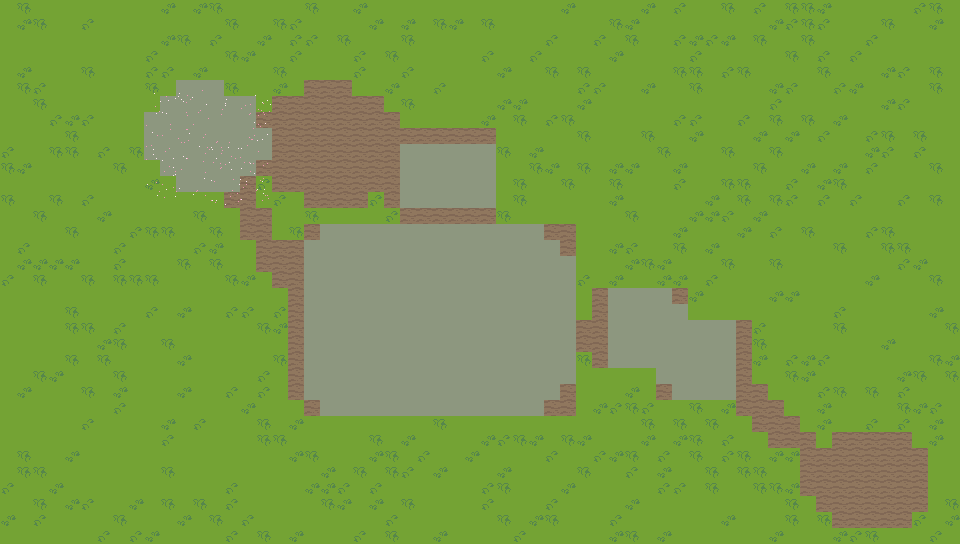
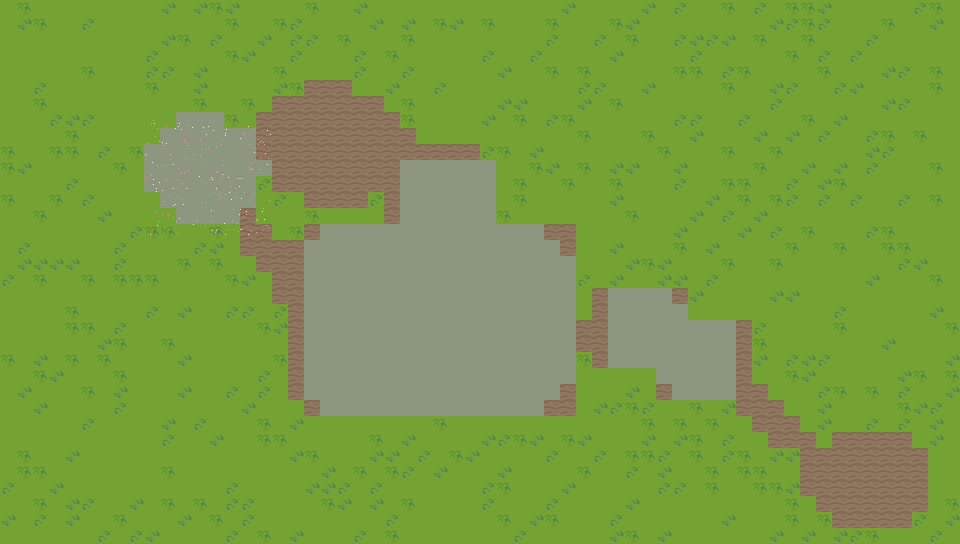
调整: 放大日式建筑并补红色鸟居/石灯笼
主城/治疗堂/眼狩署/神樱庭房屋 1.5x, 锻造坊 2x; 地点标签改为显式 labelY, 不再压屋顶。

新增红色鸟居 (神樱庭/官道) 与石灯笼 (广场/神社/路边, 带暖光); 神樱庭下移、眼狩署下移避开顶部时间轴/世界横幅; 官道木门由鸟居替代。

E2E 增加鸟居/石灯笼纹理断言。

diff --git a/visualization/src/art/ninjaAssets.ts b/visualization/src/art/ninjaAssets.ts
@@ -6,7 +6,7 @@ export const NINJA_TOWN_KEY = "ninja_town";
 
 export const NINJA_SPRITE_FILES = [
   "house_main", "house_clinic", "house_shrine", "house_forge",
-  "house_white", "house_ruin", "gate", "fence", "rock", "log",
+  "house_white", "house_ruin", "fence", "rock", "log", "torii_red", "lantern_stone",
   "tree_round", "tree_round2", "tree_sakura",
 ] as const;
 
@@ -23,15 +23,12 @@ export interface NinjaPart {
 
 // 每个地点 1~2 个建筑部件; 底边锚在锚点略后方, 角色站前方 → y-sort。
 export const NINJA_BUILDING_PARTS: Record<string, NinjaPart[]> = {
-  稻妻主城: [{ key: "house_clinic", dx: 0, dy: 0 }],
-  治疗堂: [{ key: "house_main", dx: 0, dy: 0 }],
+  稻妻主城: [{ key: "house_clinic", dx: 0, dy: 0, scale: 1.5 }],
+  治疗堂: [{ key: "house_main", dx: 0, dy: 0, scale: 1.5 }],
   锻造坊: [{ key: "house_forge", dx: 0, dy: 0, scale: 2 }],
-  眼狩署: [{ key: "house_white", dx: 0, dy: 0 }],
-  神樱庭: [
-    { key: "house_shrine", dx: 0, dy: 0 },
-    { key: "gate", dx: -55, dy: 4 },
-  ],
-  城外官道: [{ key: "gate", dx: 0, dy: 0 }],
+  眼狩署: [{ key: "house_white", dx: 0, dy: 0, scale: 1.5 }],
+  神樱庭: [{ key: "house_shrine", dx: 0, dy: 0, scale: 1.5 }],
+  城外官道: [],
 };
 
 export interface NinjaDecor {
@@ -88,4 +85,14 @@ export const NINJA_DECOR: NinjaDecor[] = [
   { key: "fence", x: 382, y: 165, scale: 1 },
   { key: "log", x: 292, y: 170, scale: 1 },
   { key: "rock", x: 360, y: 120, scale: 1 },
+  // 红色鸟居 + 石灯笼 (稻妻/和风标志)
+  { key: "torii_red", x: 120, y: 180, scale: 1 },
+  { key: "torii_red", x: 850, y: 450, scale: 1 },
+  { key: "lantern_stone", x: 350, y: 320, scale: 1 },
+  { key: "lantern_stone", x: 530, y: 320, scale: 1 },
+  { key: "lantern_stone", x: 600, y: 360, scale: 1 },
+  { key: "lantern_stone", x: 300, y: 210, scale: 1 },
+  { key: "lantern_stone", x: 760, y: 400, scale: 1 },
+  { key: "lantern_stone", x: 660, y: 300, scale: 1 },
+  { key: "lantern_stone", x: 130, y: 230, scale: 1 },
 ];

diff --git a/visualization/src/data/locationAnchors.ts b/visualization/src/data/locationAnchors.ts
@@ -11,15 +11,17 @@ export interface LocationAnchor {
   w: number;
   h: number;
   color: number;
+  // 可选: 地点标签的屏幕 y (不填则按 h 估算)。大房子/鸟居需要显式抬高。
+  labelY?: number;
 }
 
 export const LOCATION_ANCHORS: Record<string, LocationAnchor> = {
-  稻妻主城: { x: 440, y: 330, label: "稻妻主城", w: 180, h: 140, color: 0x3a4a5a },
-  治疗堂:   { x: 640, y: 330, label: "治疗堂",   w: 130, h: 140, color: 0x4a5a4a },
-  锻造坊:   { x: 700, y: 360, label: "锻造坊",   w: 120, h: 140, color: 0x5a4a3a },
-  眼狩署:   { x: 440, y: 170, label: "眼狩署",   w: 140, h: 100, color: 0x5a3a3a },
-  神樱庭:   { x: 200, y: 130, label: "神樱庭",   w: 150, h: 110, color: 0x5a3a5a },
-  城外官道: { x: 850, y: 470, label: "城外官道", w: 130, h: 70,  color: 0x4a4a3a },
+  稻妻主城: { x: 440, y: 330, label: "稻妻主城", w: 180, h: 140, color: 0x3a4a5a, labelY: 170 },
+  治疗堂:   { x: 640, y: 330, label: "治疗堂",   w: 130, h: 140, color: 0x4a5a4a, labelY: 195 },
+  锻造坊:   { x: 700, y: 360, label: "锻造坊",   w: 120, h: 140, color: 0x5a4a3a, labelY: 245 },
+  眼狩署:   { x: 440, y: 190, label: "眼狩署",   w: 140, h: 100, color: 0x5a3a3a, labelY: 80 },
+  神樱庭:   { x: 200, y: 160, label: "神樱庭",   w: 150, h: 110, color: 0x5a3a5a, labelY: 56 },
+  城外官道: { x: 850, y: 470, label: "城外官道", w: 130, h: 70,  color: 0x4a4a3a, labelY: 360 },
 };
 
 // 某地点的视觉锚点中心 (Sprite 站位)。未知地点回退画布中心。

diff --git a/visualization/src/scenes/InazumaScene.ts b/visualization/src/scenes/InazumaScene.ts
@@ -281,7 +281,7 @@ export class InazumaScene extends Phaser.Scene {
     }
     // 地点标签: 统一放建筑/角色上方; 顶部过近时夹到 y=50 (避开时间轴)。
     for (const a of Object.values(LOCATION_ANCHORS)) {
-      const labelY = Math.max(56, a.y - a.h / 2 - 14 - LOCATION_LABEL_LIFT);
+      const labelY = a.labelY ?? Math.max(56, a.y - a.h / 2 - 14 - LOCATION_LABEL_LIFT);
       this.add.text(a.x, labelY, a.label, {
         fontFamily: "monospace", fontSize: "11px", color: "#cfc6b8", stroke: "#000000", strokeThickness: 2,
       }).setOrigin(0.5, 1).setDepth(500);
@@ -669,6 +669,9 @@ export class InazumaScene extends Phaser.Scene {
       const sc = d.scale ?? 1;
       if (d.key.startsWith("tree")) {
         this.add.ellipse(d.x, d.y - 3, 18 * sc, 6, 0x000000, 0.16)
+          .setDepth(Math.round(d.y) - 1);
+      } else if (d.key === "lantern_stone") {
+        this.add.ellipse(d.x, d.y - 26, 26, 9, 0xf5d27a, 0.18)
           .setDepth(Math.round(d.y) - 1);
       }
       this.add.image(d.x, d.y, ninjaKey(d.key))

diff --git a/visualization/tools/build_ninja_town.py b/visualization/tools/build_ninja_town.py
@@ -47,13 +47,13 @@ def main() -> None:
     # 土路 / 营地 / 官道口
     path = Image.new("L", base.size, 0)
     d = ImageDraw.Draw(path)
-    d.line([(200, 130), (300, 300), (440, 330), (640, 330), (700, 360), (850, 480)],
+    d.line([(200, 160), (300, 300), (440, 330), (640, 330), (700, 360), (850, 480)],
            fill=255, width=30, joint="curve")
-    d.line([(440, 330), (440, 170)], fill=255, width=30)
+    d.line([(440, 330), (440, 190)], fill=255, width=30)
     d.ellipse((250, 85, 410, 205), fill=255)
     d.ellipse((805, 430, 930, 530), fill=255)
     d.rounded_rectangle((292, 222, 578, 418), radius=34, fill=255)
-    d.rounded_rectangle((388, 132, 500, 218), radius=18, fill=255)
+    d.rounded_rectangle((388, 152, 500, 238), radius=18, fill=255)
     d.rounded_rectangle((596, 288, 690, 368), radius=16, fill=255)
     d.rounded_rectangle((650, 318, 750, 398), radius=16, fill=255)
     fill(base, path, DIRT)
@@ -62,7 +62,7 @@ def main() -> None:
     stone = Image.new("L", base.size, 0)
     d2 = ImageDraw.Draw(stone)
     d2.rounded_rectangle((300, 230, 570, 410), radius=30, fill=255)
-    d2.rounded_rectangle((394, 138, 494, 212), radius=14, fill=255)
+    d2.rounded_rectangle((394, 158, 494, 232), radius=14, fill=255)
     d2.rounded_rectangle((604, 294, 682, 362), radius=12, fill=255)
     d2.rounded_rectangle((658, 324, 742, 392), radius=12, fill=255)
     fill(base, stone, STONE)
@@ -70,7 +70,7 @@ def main() -> None:
     # 神社前庭: 石板
     deck = Image.new("L", base.size, 0)
     d3 = ImageDraw.Draw(deck)
-    d3.ellipse((145, 85, 265, 195), fill=255)
+    d3.ellipse((145, 115, 265, 225), fill=255)
     fill(base, deck, STONE)
 
     # 草叶斑块
@@ -84,7 +84,7 @@ def main() -> None:
     px = base.load()
     for _ in range(180):
         x = RNG.randint(145, 270)
-        y = RNG.randint(90, 205)
+        y = RNG.randint(120, 235)
         r, g, b, a = base.getpixel((x, y))
         if a:
             px[x, y] = (238, 150, 180, 255) if RNG.random() < 0.7 else (255, 230, 240, 255)

diff --git a/VisualizationPlan.md b/VisualizationPlan.md
@@ -882,8 +882,8 @@ persona_agent/
   `public/assets/ninja/tileset_*.png`；地面 `public/assets/ninja-town.png` 由
   `tools/build_ninja_town.py` 生成（60×34，草地/土路/石板广场/神社前庭/樱花）；建筑
   （和风木屋/茅屋/废弃屋）、苔藓树、樱花、木门、栅栏、岩石、倒木从 village sheet 裁成透明
-  Sprite（`public/assets/ninja/`），depth 取脚底 y，和角色一起 y-sort。旧 Tiny Town 地图与
-  tile 定义保留为素材缺失时的回退。
+  Sprite（`public/assets/ninja/`），depth 取脚底 y，和角色一起 y-sort；房屋按 1.5x/2x
+  放大，并补红色鸟居 + 石灯笼（含暖光）。旧 Tiny Town 地图与 tile 定义保留为素材缺失时的回退。
 - **角色（idle/walk 动画）+ 活动点道具（铁砧/病床/书桌/鸟居）**：默认使用**原创像素**（代码
   生成，见 `art/characters.ts` / `art/activityFrames.ts` / `art/palette.ts`），无第三方素材、
   无许可证风险。若本地安装官方全身立绘（见下），世界内角色优先换成 40×56 像素化 Sprite

diff --git a/visualization/README.md b/visualization/README.md
@@ -144,7 +144,7 @@ npm run e2e
   仅个人学习/演示，发布前需替换或授权）。地面 `ninja-town.png` 由
   `tools/build_ninja_town.py` 生成（60×34：草地、土路、石板广场、神社前庭、樱花）；和风
   木屋/茅屋/废弃屋、苔藓树、樱花、木门、栅栏、岩石、倒木裁成透明 Sprite
-  （`public/assets/ninja/`），depth=脚底 y，与角色一起 y-sort；布局在
+  （`public/assets/ninja/`），depth=脚底 y，与角色一起 y-sort；房屋按 1.5x/2x 放大，另加**红色鸟居 + 石灯笼**（夜间暖光）。布局在
   `art/ninjaAssets.ts`。原 **Kenney "Tiny Town"** 保留为素材缺失回退。
   **角色帧（idle/walk）与活动点道具（铁砧/病床/书桌/鸟居）默认保留原创像素**；本地安装
   官方全身立绘后，世界角色切换为 40×56 像素化 Sprite（仅个人学习，gitignored）。
